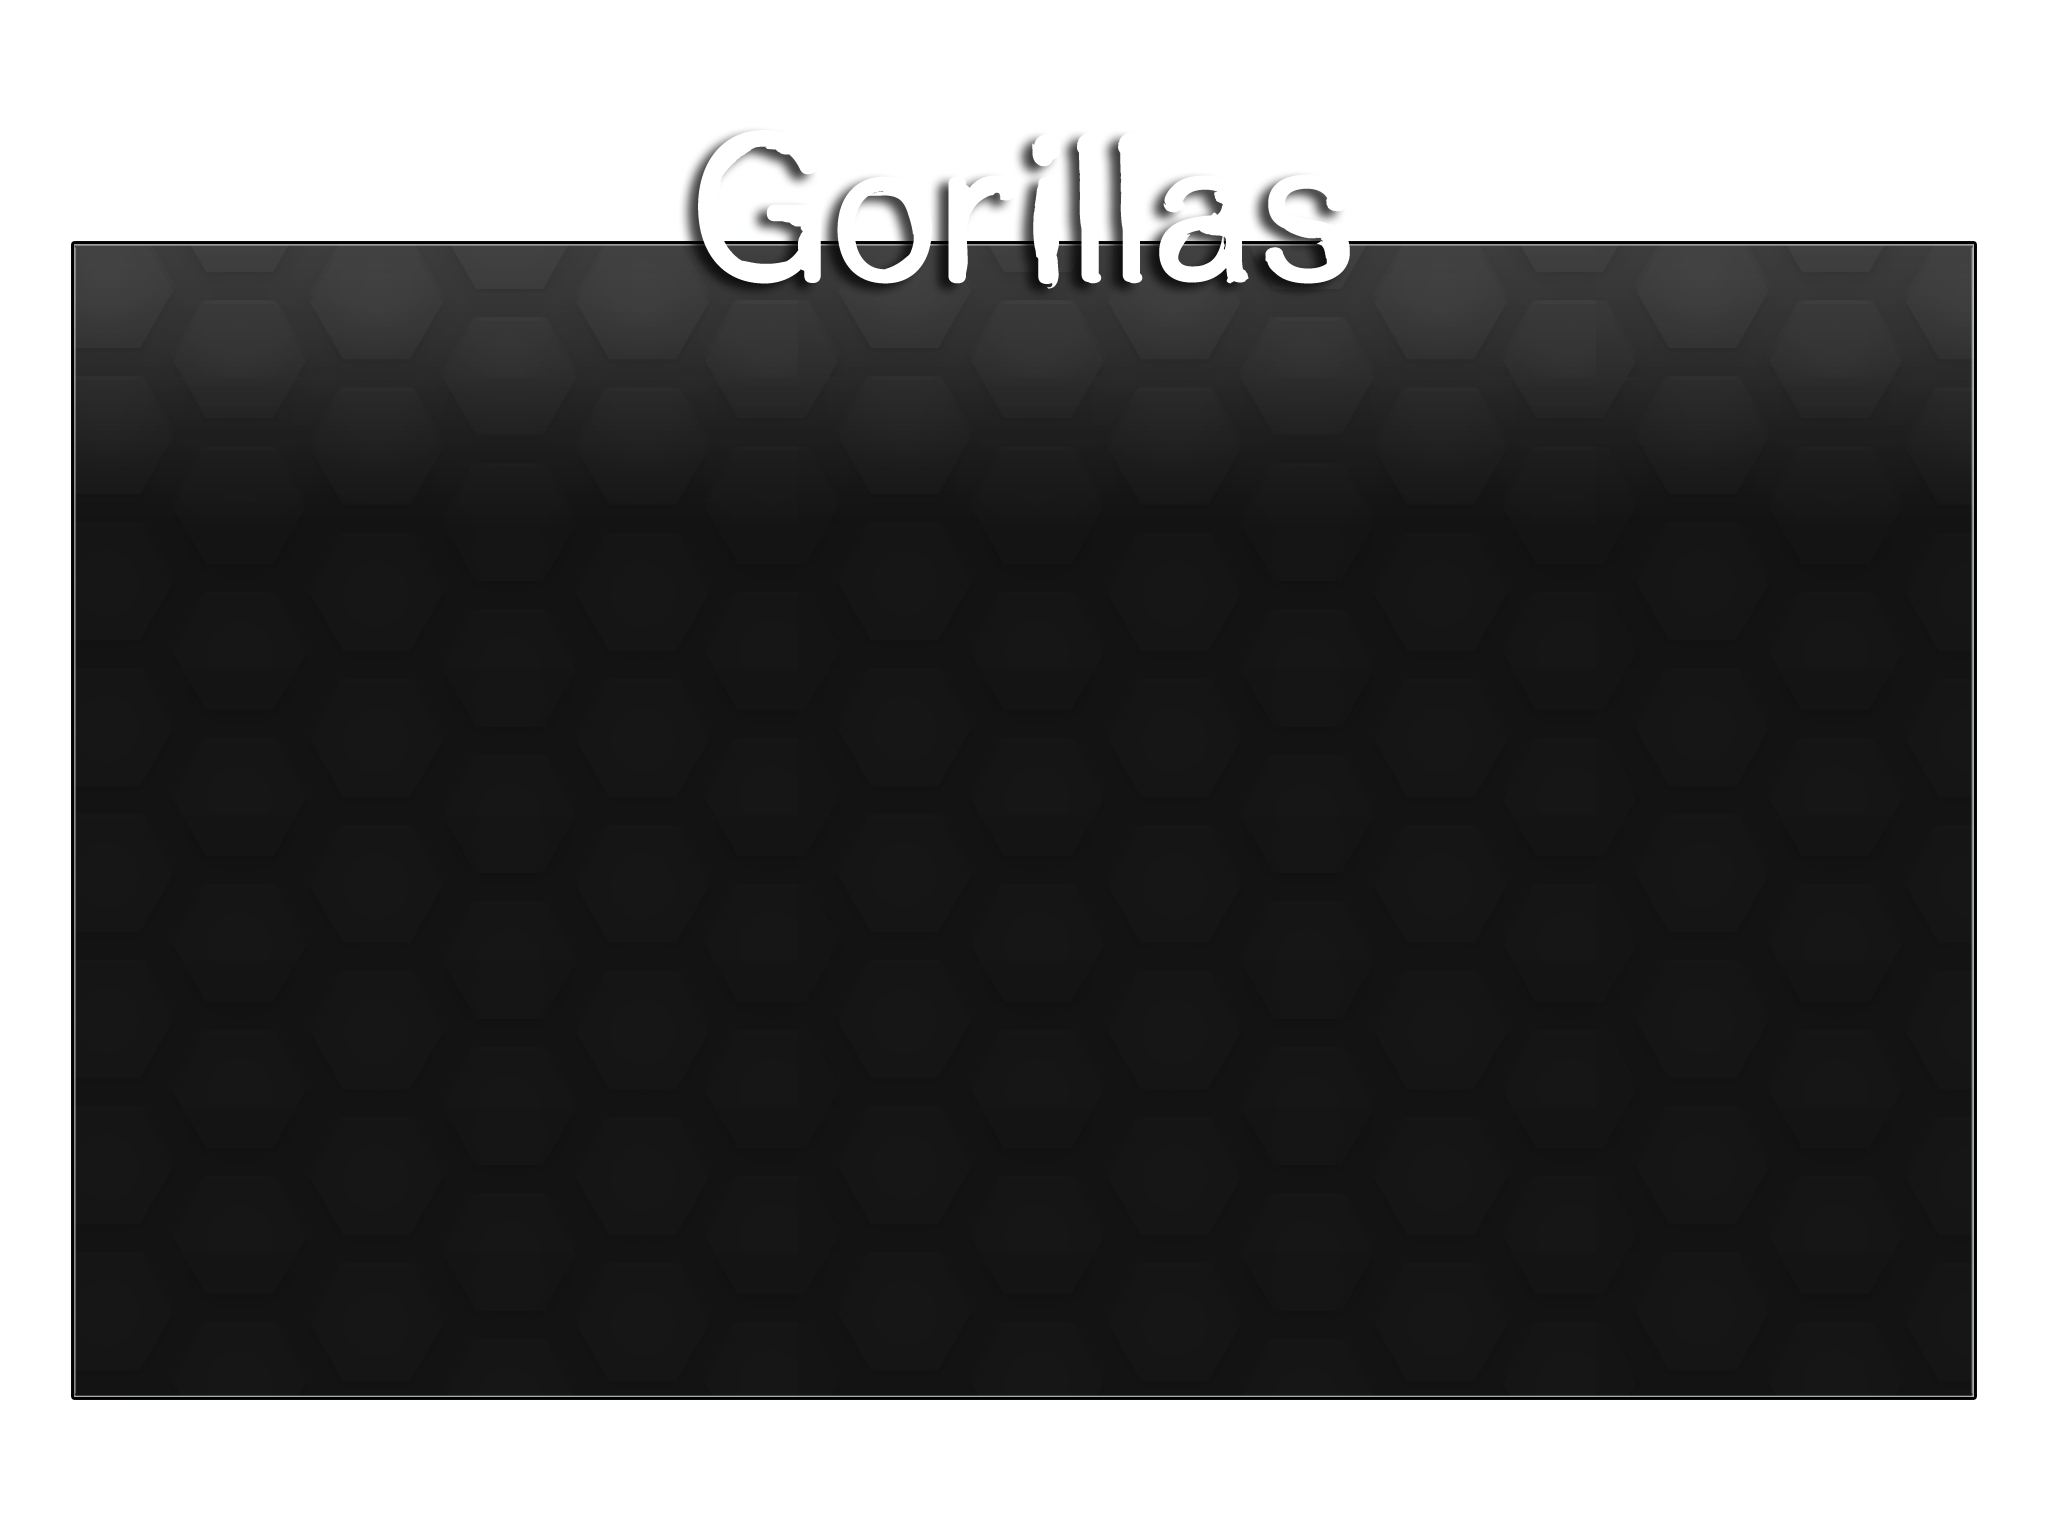
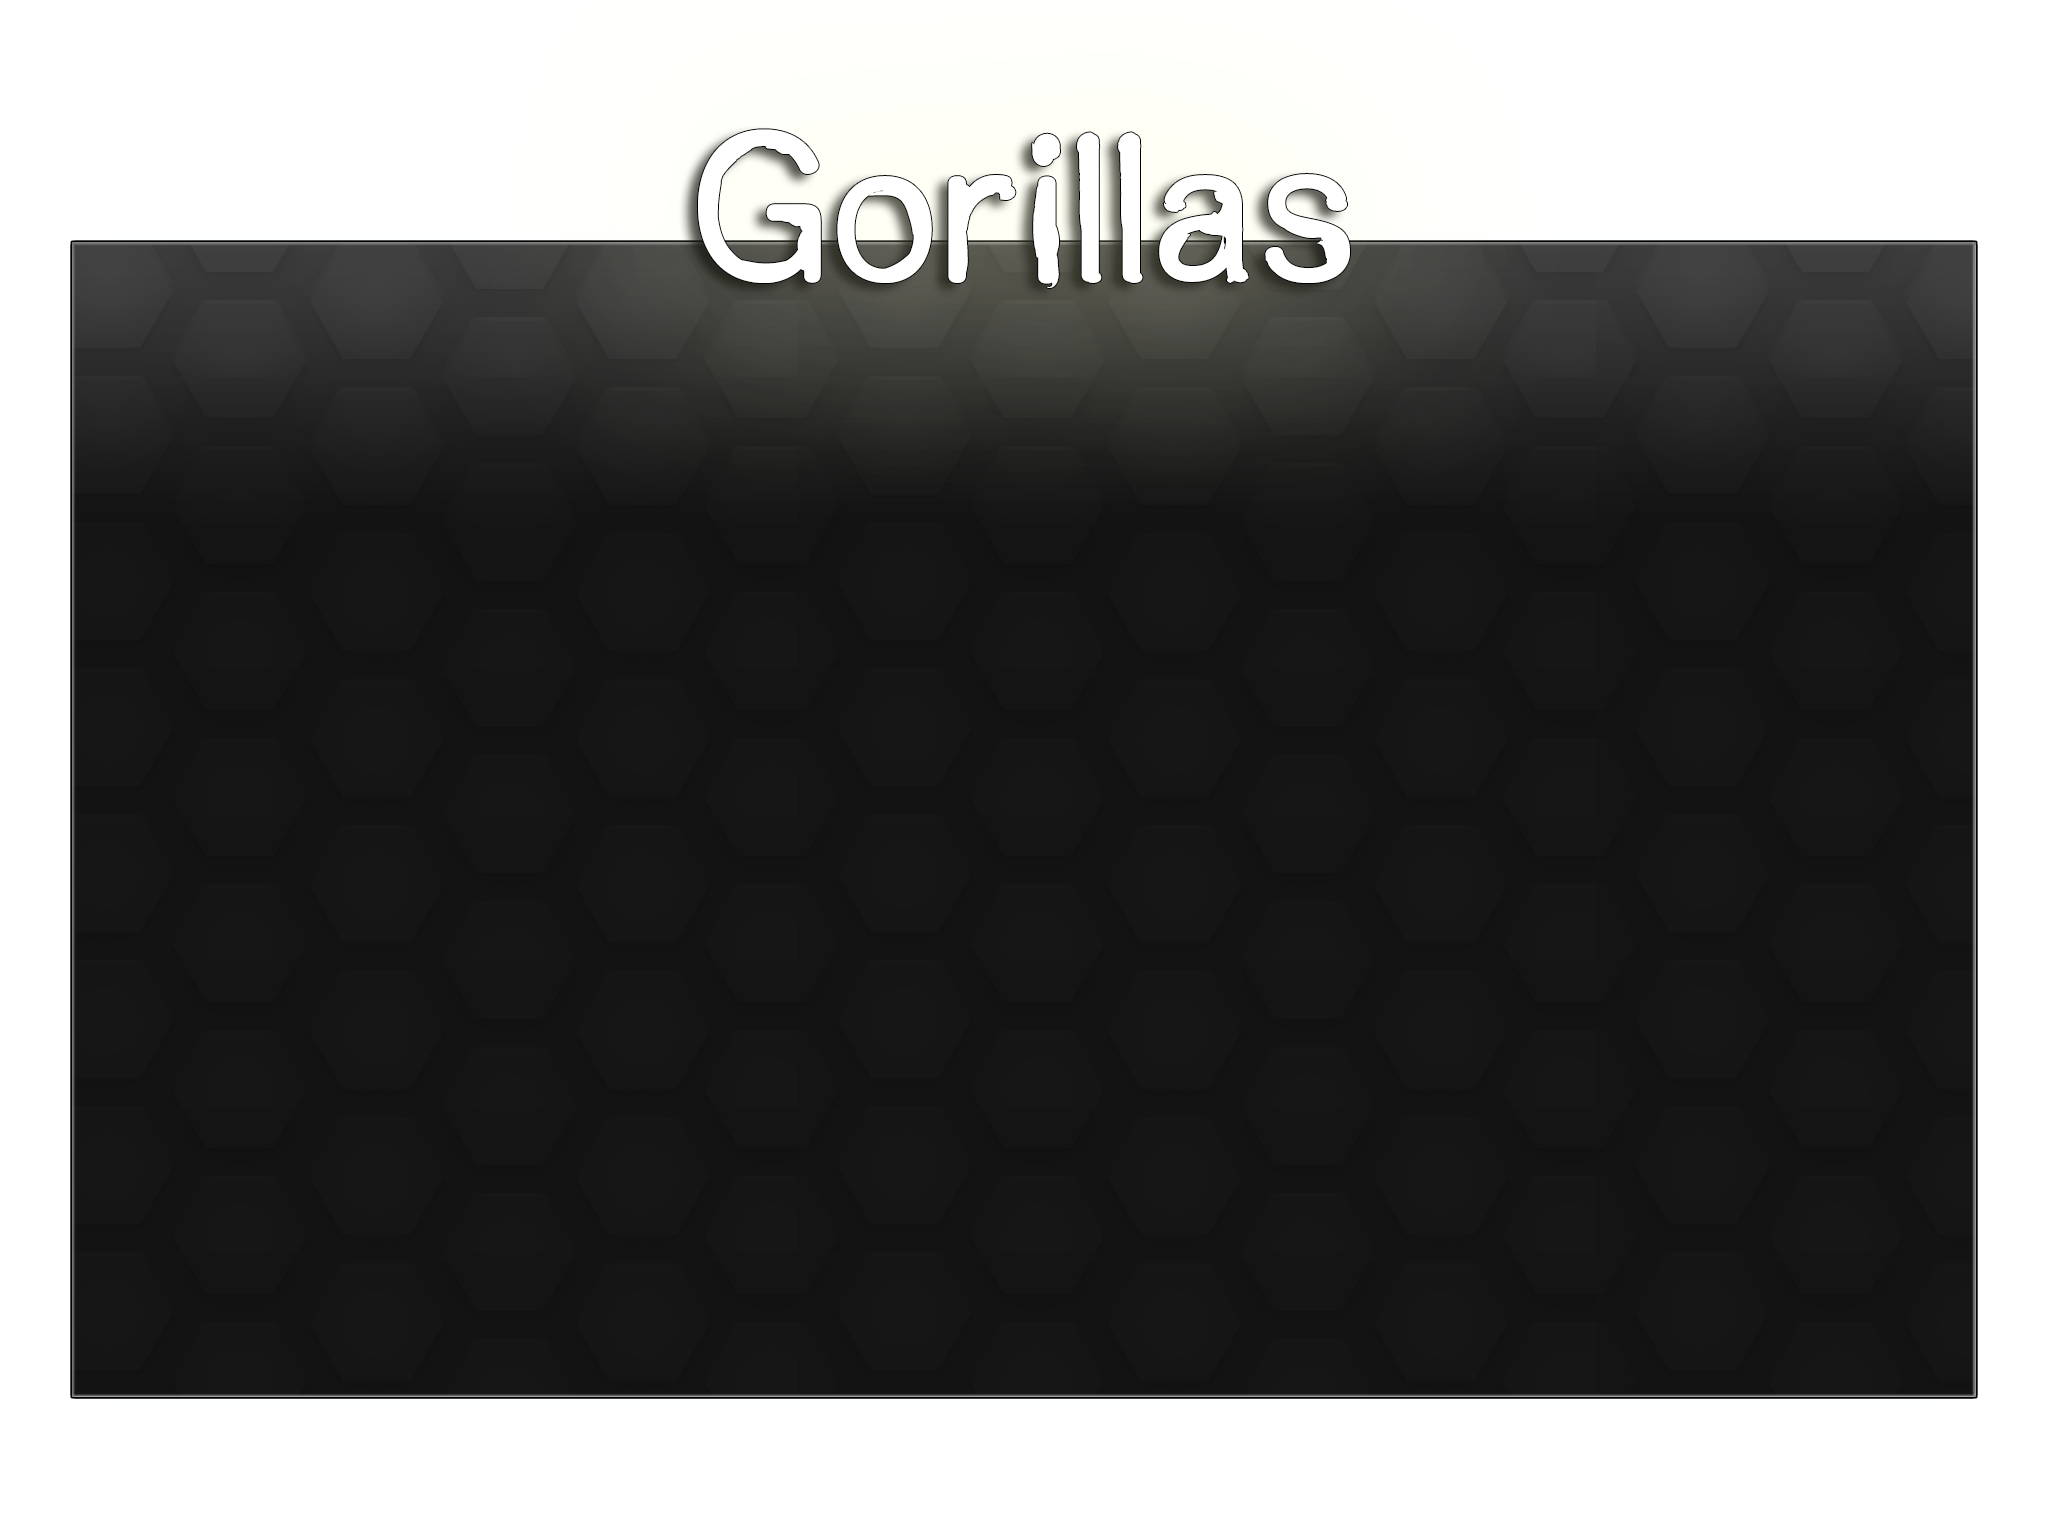
Improved menu art and added review asking.
[ADDED]     Missing iTunesID for review asking.
[UPDATED]   Menu art.

Changed region(s): [[0.3438, 0.0938, 0.9688, 0.2188], [0.0312, 0.1562, 0.3125, 0.1875]]

diff --git a/Gorillas/MainMenuLayer.m b/Gorillas/MainMenuLayer.m
@@ -55,21 +55,25 @@
 - (void)doLoad {
 
     self.background = [CCSprite spriteWithFile:@"menu-main.png"];
-    self.itemCounts = @[ @1, @3, @1, @1, @1, @2 ];
+    self.itemCounts = @[ @1, @3, @1, @1, @1, @3 ];
     self.items = @[
+            // Row 1
             [PearlCCMenuItemSpacer spacerSmall],
-            multiPlayerI = [PearlCCMenuItemBlock itemWithSize:(NSUInteger)(100.0f * [PearlDeviceUtils uiScale]) target:self
+            multiPlayerI = [PearlCCMenuItemBlock itemWithSize:(NSUInteger)(80.0f * [PearlDeviceUtils uiScale]) target:self
                                                      selector:@selector(startMulti:)],
-            singlePlayerI = [PearlCCMenuItemBlock itemWithSize:(NSUInteger)(100.0f * [PearlDeviceUtils uiScale]) target:self
+            singlePlayerI = [PearlCCMenuItemBlock itemWithSize:(NSUInteger)(80.0f * [PearlDeviceUtils uiScale]) target:self
                                                       selector:@selector(startSingle:)],
-            hotSeatI = [PearlCCMenuItemBlock itemWithSize:(NSUInteger)(100.0f * [PearlDeviceUtils uiScale]) target:self
+            hotSeatI = [PearlCCMenuItemBlock itemWithSize:(NSUInteger)(80.0f * [PearlDeviceUtils uiScale]) target:self
                                                  selector:@selector(startHotSeat:)],
+            // Row 2
             configurationI = [CCMenuItemToggle itemWithTarget:self selector:@selector(gameConfiguration:)],
             descriptionT = [PearlCCMenuItemTitle itemWithString:@"description"],
             [PearlCCMenuItemSpacer spacerNormal],
-            [PearlCCMenuItemBlock itemWithSize:(NSUInteger)(50.0f * [PearlDeviceUtils uiScale]) target:self
+            // Row 3
+            [PearlCCMenuItemBlock itemWithSize:(NSUInteger)(40.0f * [PearlDeviceUtils uiScale]) target:self
                                       selector:@selector(settings:)],
-            [PearlCCMenuItemBlock itemWithSize:(NSUInteger)(50.0f * [PearlDeviceUtils uiScale]) target:self
+            [PearlCCMenuItemBlock itemWithSize:(NSUInteger)(40.0f * [PearlDeviceUtils uiScale])],
+            [PearlCCMenuItemBlock itemWithSize:(NSUInteger)(40.0f * [PearlDeviceUtils uiScale]) target:self
                                       selector:@selector(scores:)],
     ];
 

diff --git a/Gorillas/GorillasConfig.m b/Gorillas/GorillasConfig.m
@@ -84,6 +84,7 @@
 
     [self.defaults
             registerDefaults:@{
+                    NSStringFromSelector( @selector(iTunesID) )                     : @"302275459",
                     NSStringFromSelector( @selector(askForReviews) )                : @YES,
 
                     NSStringFromSelector( @selector(cityTheme) )                    : [CityTheme defaultThemeName],
